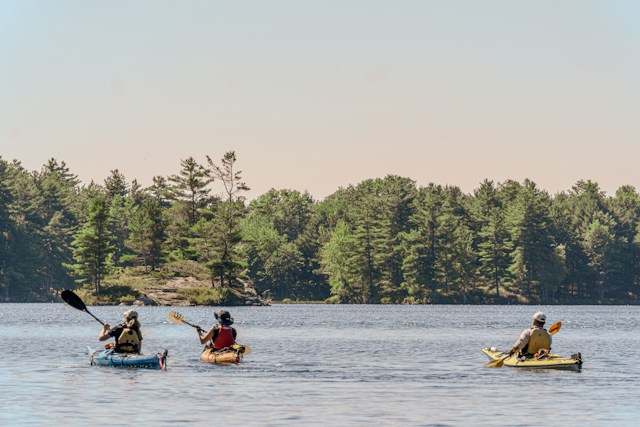
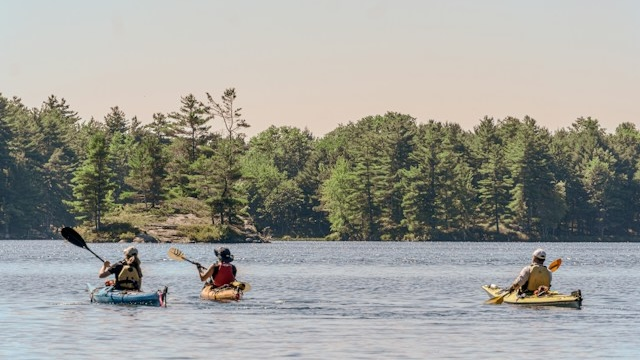
edited blog images vector wave

diff --git a/css/style.css b/css/style.css
@@ -343,6 +343,10 @@ section.intro {
     gap:40px; 
 }
 
+    .new-arrivals-slider .button {
+        margin-bottom:60px;
+    }
+
 /* section: blog */
 .homepage section.blog {
     background-color: var(--hex-blue-dark);
@@ -370,22 +374,31 @@ section.intro {
 
     .blogpost-img {
         width:100%;
-        height:218px;
-        clip-path: path("M400 182.114L390.444 187.416C380.889 192.818 361.778 203.421 342.756 201.921C323.689 200.42 304.755 186.815 285.688 181.113C266.666 175.411 247.555 177.812 228.533 184.814C209.467 191.817 190.533 203.421 171.467 199.82C152.445 196.119 133.334 177.113 114.312 180.113C95.2449 183.114 76.3108 208.123 57.2441 215.426C38.222 222.828 19.1112 212.424 9.55566 207.322L0 202.121V0H400V182.114Z");
+        aspect-ratio:16 / 9;
+        /*clip-path: path("M400 189.114L390.444 194.416C380.889 199.818 361.778 210.421 342.756 208.921C323.689 207.42 304.755 193.815 285.688 188.113C266.666 182.411 247.555 184.812 228.533 191.814C209.467 198.817 190.533 210.421 171.467 206.82C152.445 203.119 133.334 184.113 114.312 187.113C95.2449 190.114 76.3108 215.123 57.2441 222.426C38.222 229.828 19.1112 219.424 9.55566 214.322L0 209.121V0H400V189.114Z");*/
         background-size:cover;
         background-position: center center;
         background-repeat:no-repeat;
-        /*mask-image: url(../vectors/blog-mask.svg);
-        mask-repeat: no-repeat;
-        mask-position: center;
-        mask-size: cover; */
     }
 
     .blogpost-text {
+        position:relative;
         padding:10px 40px 30px 40px;
         display:flex;
         flex-direction: column;
         gap:10px;
+    }
+
+    .blogpost-text::before {
+        content:'';
+        position: absolute;
+        top: -44px;
+        left: 0px;
+        height: 44px;
+        width: 100%;
+        background-position: top center;
+        background-image:url('../vectors/blog-mask.svg');
+        background-size: max(100%, 400px) 44px;
     }
 
         .blogpost-date {

diff --git a/index.html b/index.html
@@ -68,9 +68,9 @@
 
             <div class="new-arrivals-slider">
                 <!-- button left -->
-                <div class="button button-small int">
+                <a class="button button-small" href="#">
                     <i class="ti ti-arrow-left"></i>
-                </div>
+                </a>
 
                 <!-- product -->
                 <article class="product">
@@ -148,7 +148,7 @@
                 </article>
 
                 <!-- button right -->
-                <a class="button button-small" href="placeholder.html">
+                <a class="button button-small" href="#">
                     <i class="ti ti-arrow-right"></i>
                 </a>
             </div><!-- end of slider with products -->
